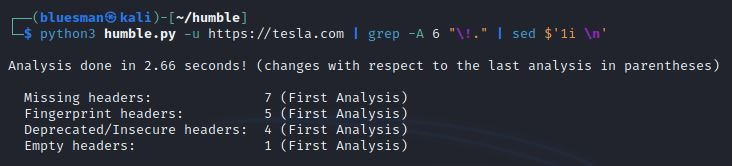
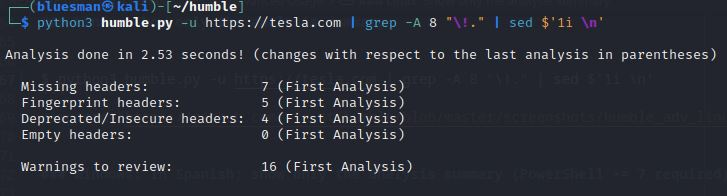
Minor: Update README.

diff --git a/README.md b/README.md
@@ -95,7 +95,7 @@ HTTP Headers Analyzer<br />
 <img src="https://github.com/rfc-st/humble/blob/master/screenshots/humble_html_s.PNG" alt="Export analysis to HTML" width=70% height=70%>
 </p>
 <br />
-.: Analysis history file: Date + URL + Checks (Missing, Fingerprint, Deprecated/Insecure and Empty headers) + Total warnings.<br />
+.: History file: Date + URL + Missing + Fingerprint + Deprecated/Insecure + Empty headers + Total warnings.<br />
 <p></p>
 <p align="center">
 <img src="https://github.com/rfc-st/humble/blob/master/screenshots/humble_ah.PNG" alt="History of analysis performed">
@@ -164,7 +164,7 @@ options:
 ### Linux: Show only the analysis summary
 
 ```
-$ python3 humble.py -u https://tesla.com | grep -A 6 "\!." | sed $'1i \n'
+$ python3 humble.py -u https://tesla.com | grep -A 8 "\!." | sed $'1i \n'
 ```
 <img src="https://github.com/rfc-st/humble/blob/master/screenshots/humble_adv_linux.jpg" alt="Show only the analysis summary (Linux)">
 
